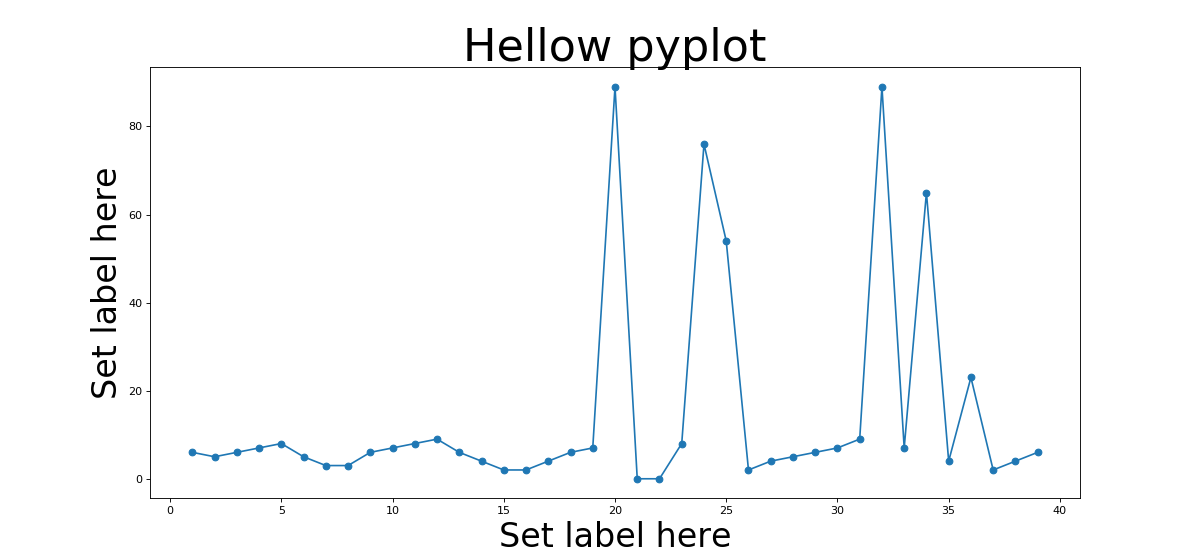
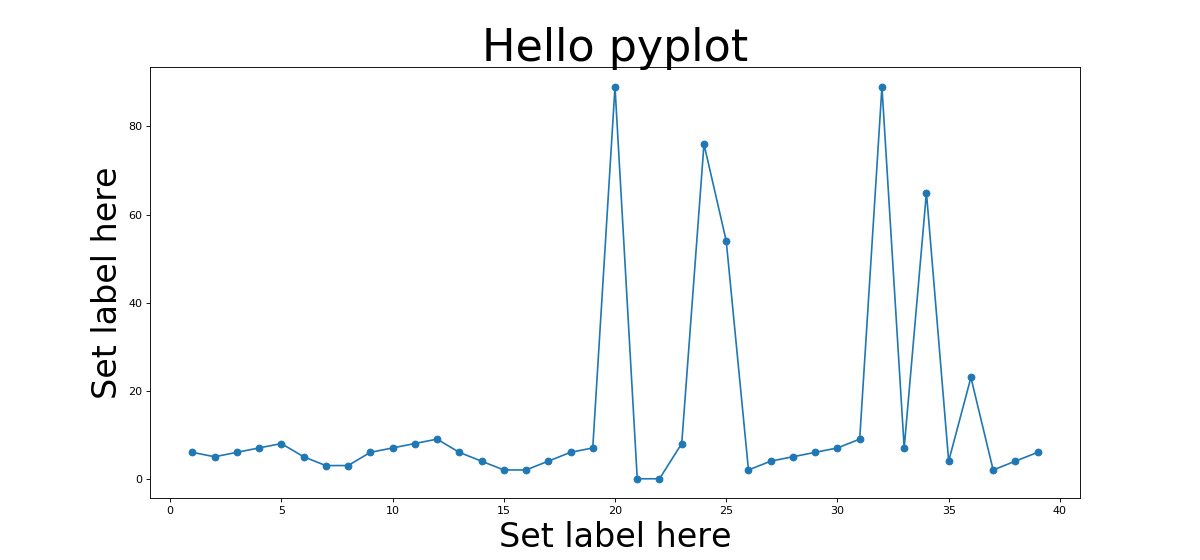
edit typo
edit typo

Changed region(s): [[0.37, 0.0304, 0.6475, 0.1214]]

diff --git a/tools/visualization/graph/python/matplotlib/matplotlib-pyplot-graph.py b/tools/visualization/graph/python/matplotlib/matplotlib-pyplot-graph.py
@@ -22,7 +22,7 @@ def draw_graph():
 
     plt.scatter(x, y)
     plt.plot(x, y)
-    plt.title('Hellow pyplot', fontsize = 40)
+    plt.title('Hello pyplot', fontsize = 40)
     plt.xlabel('Set label here', fontsize = 30)
     plt.ylabel('Set label here', fontsize = 30)
     plt.savefig(image_file_full_path)
